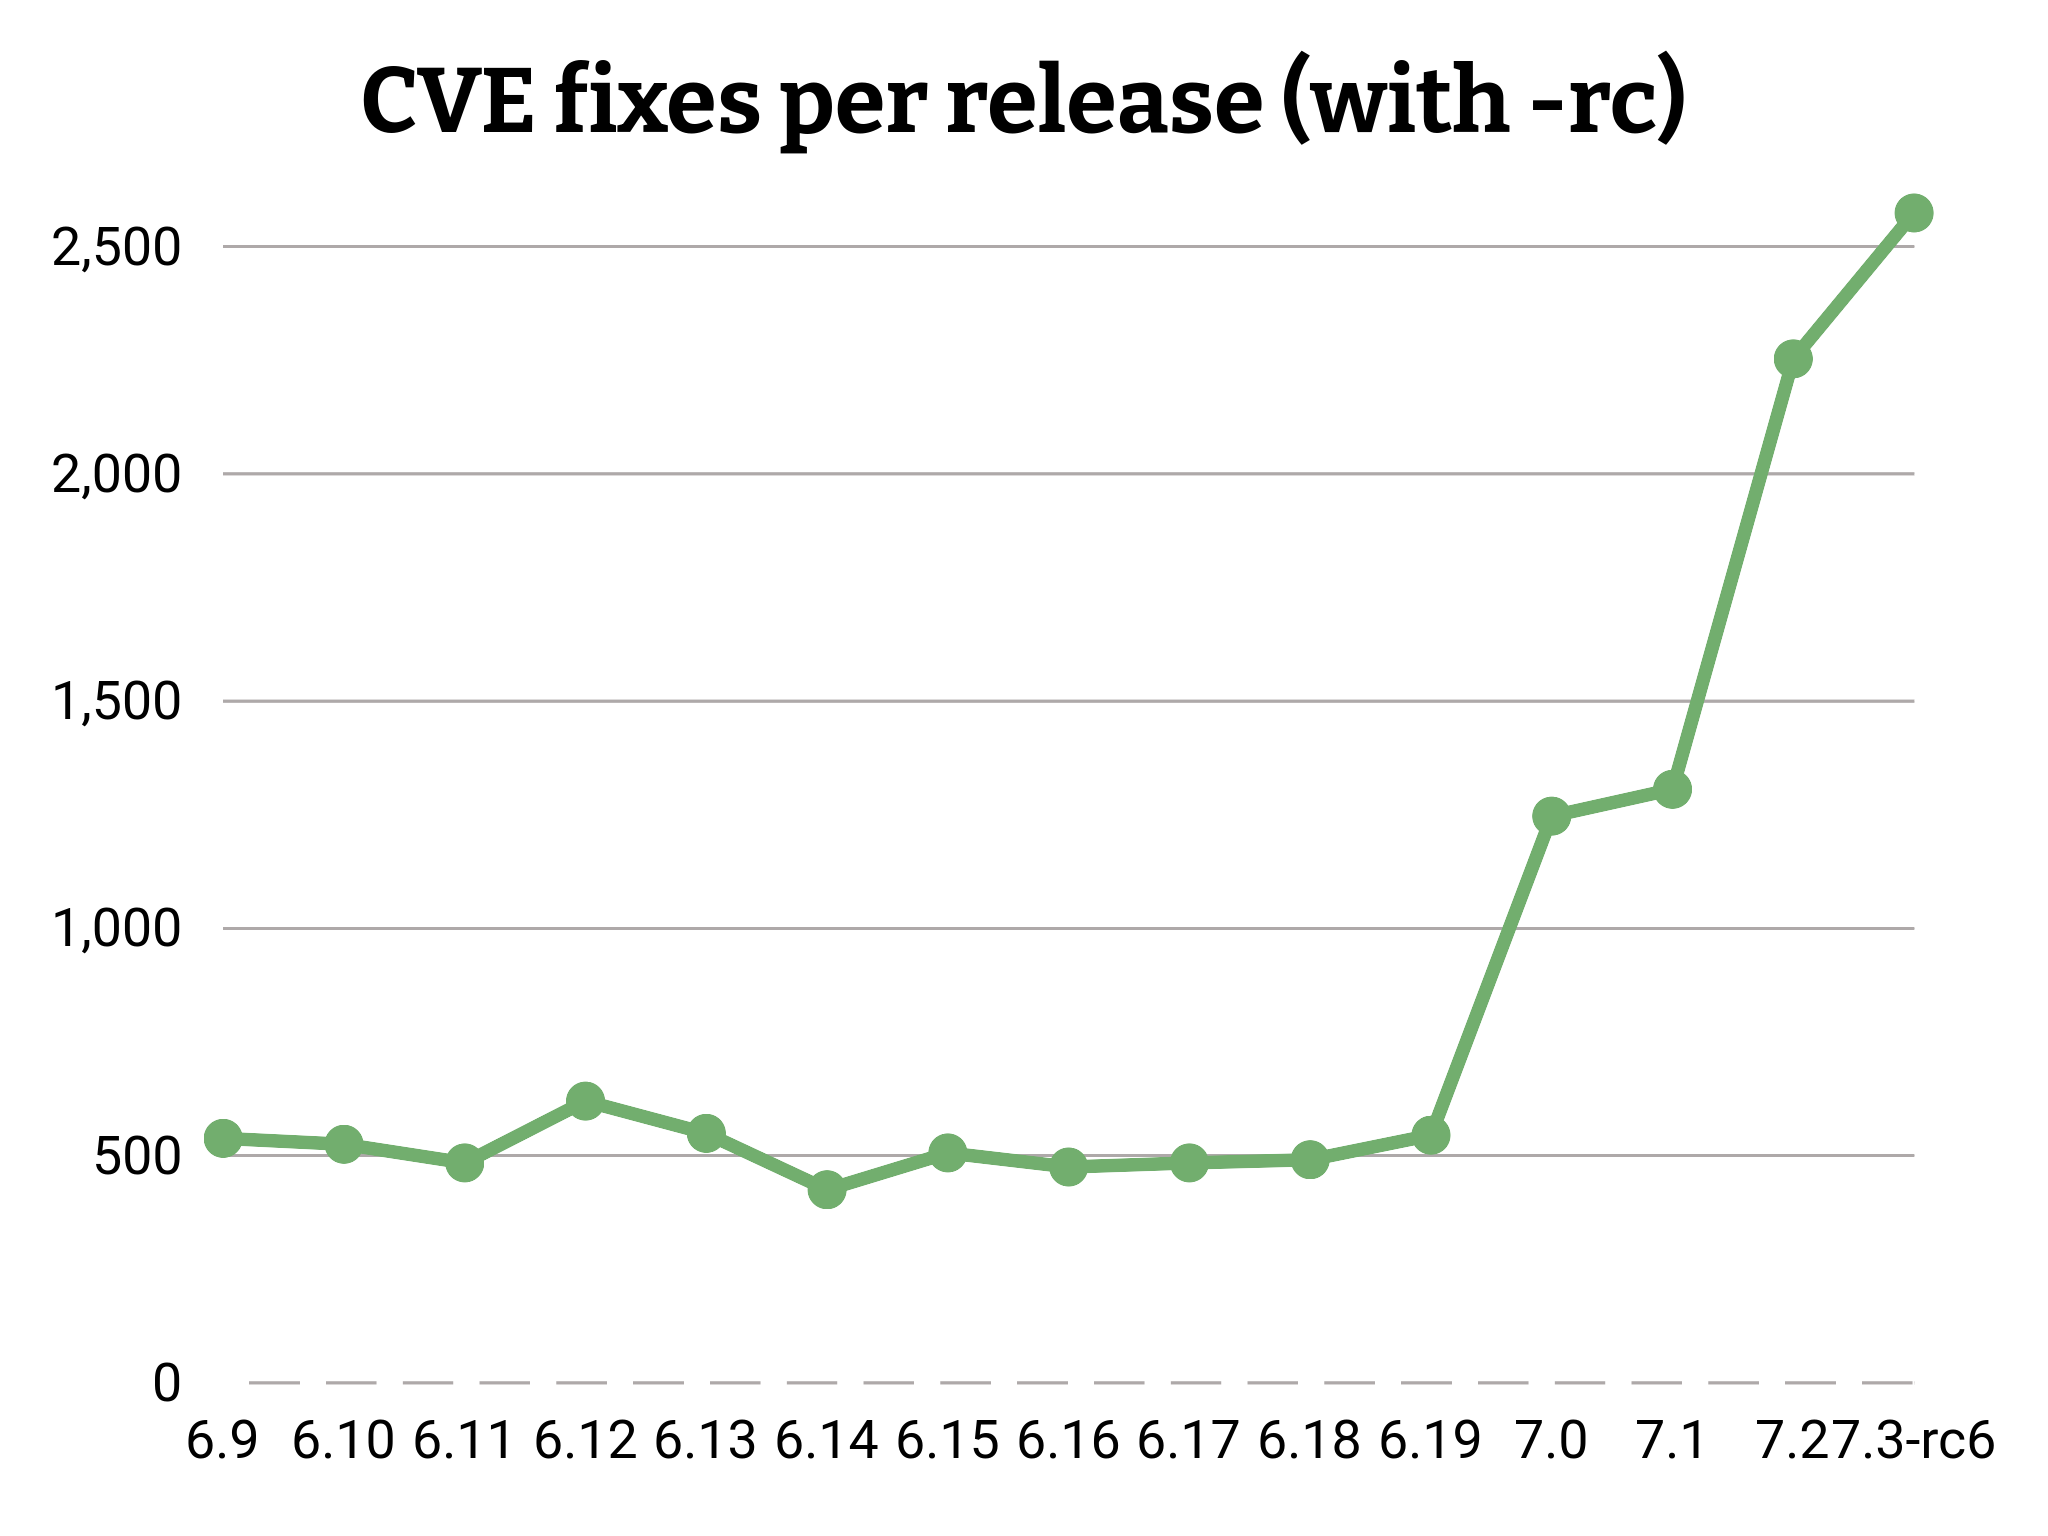
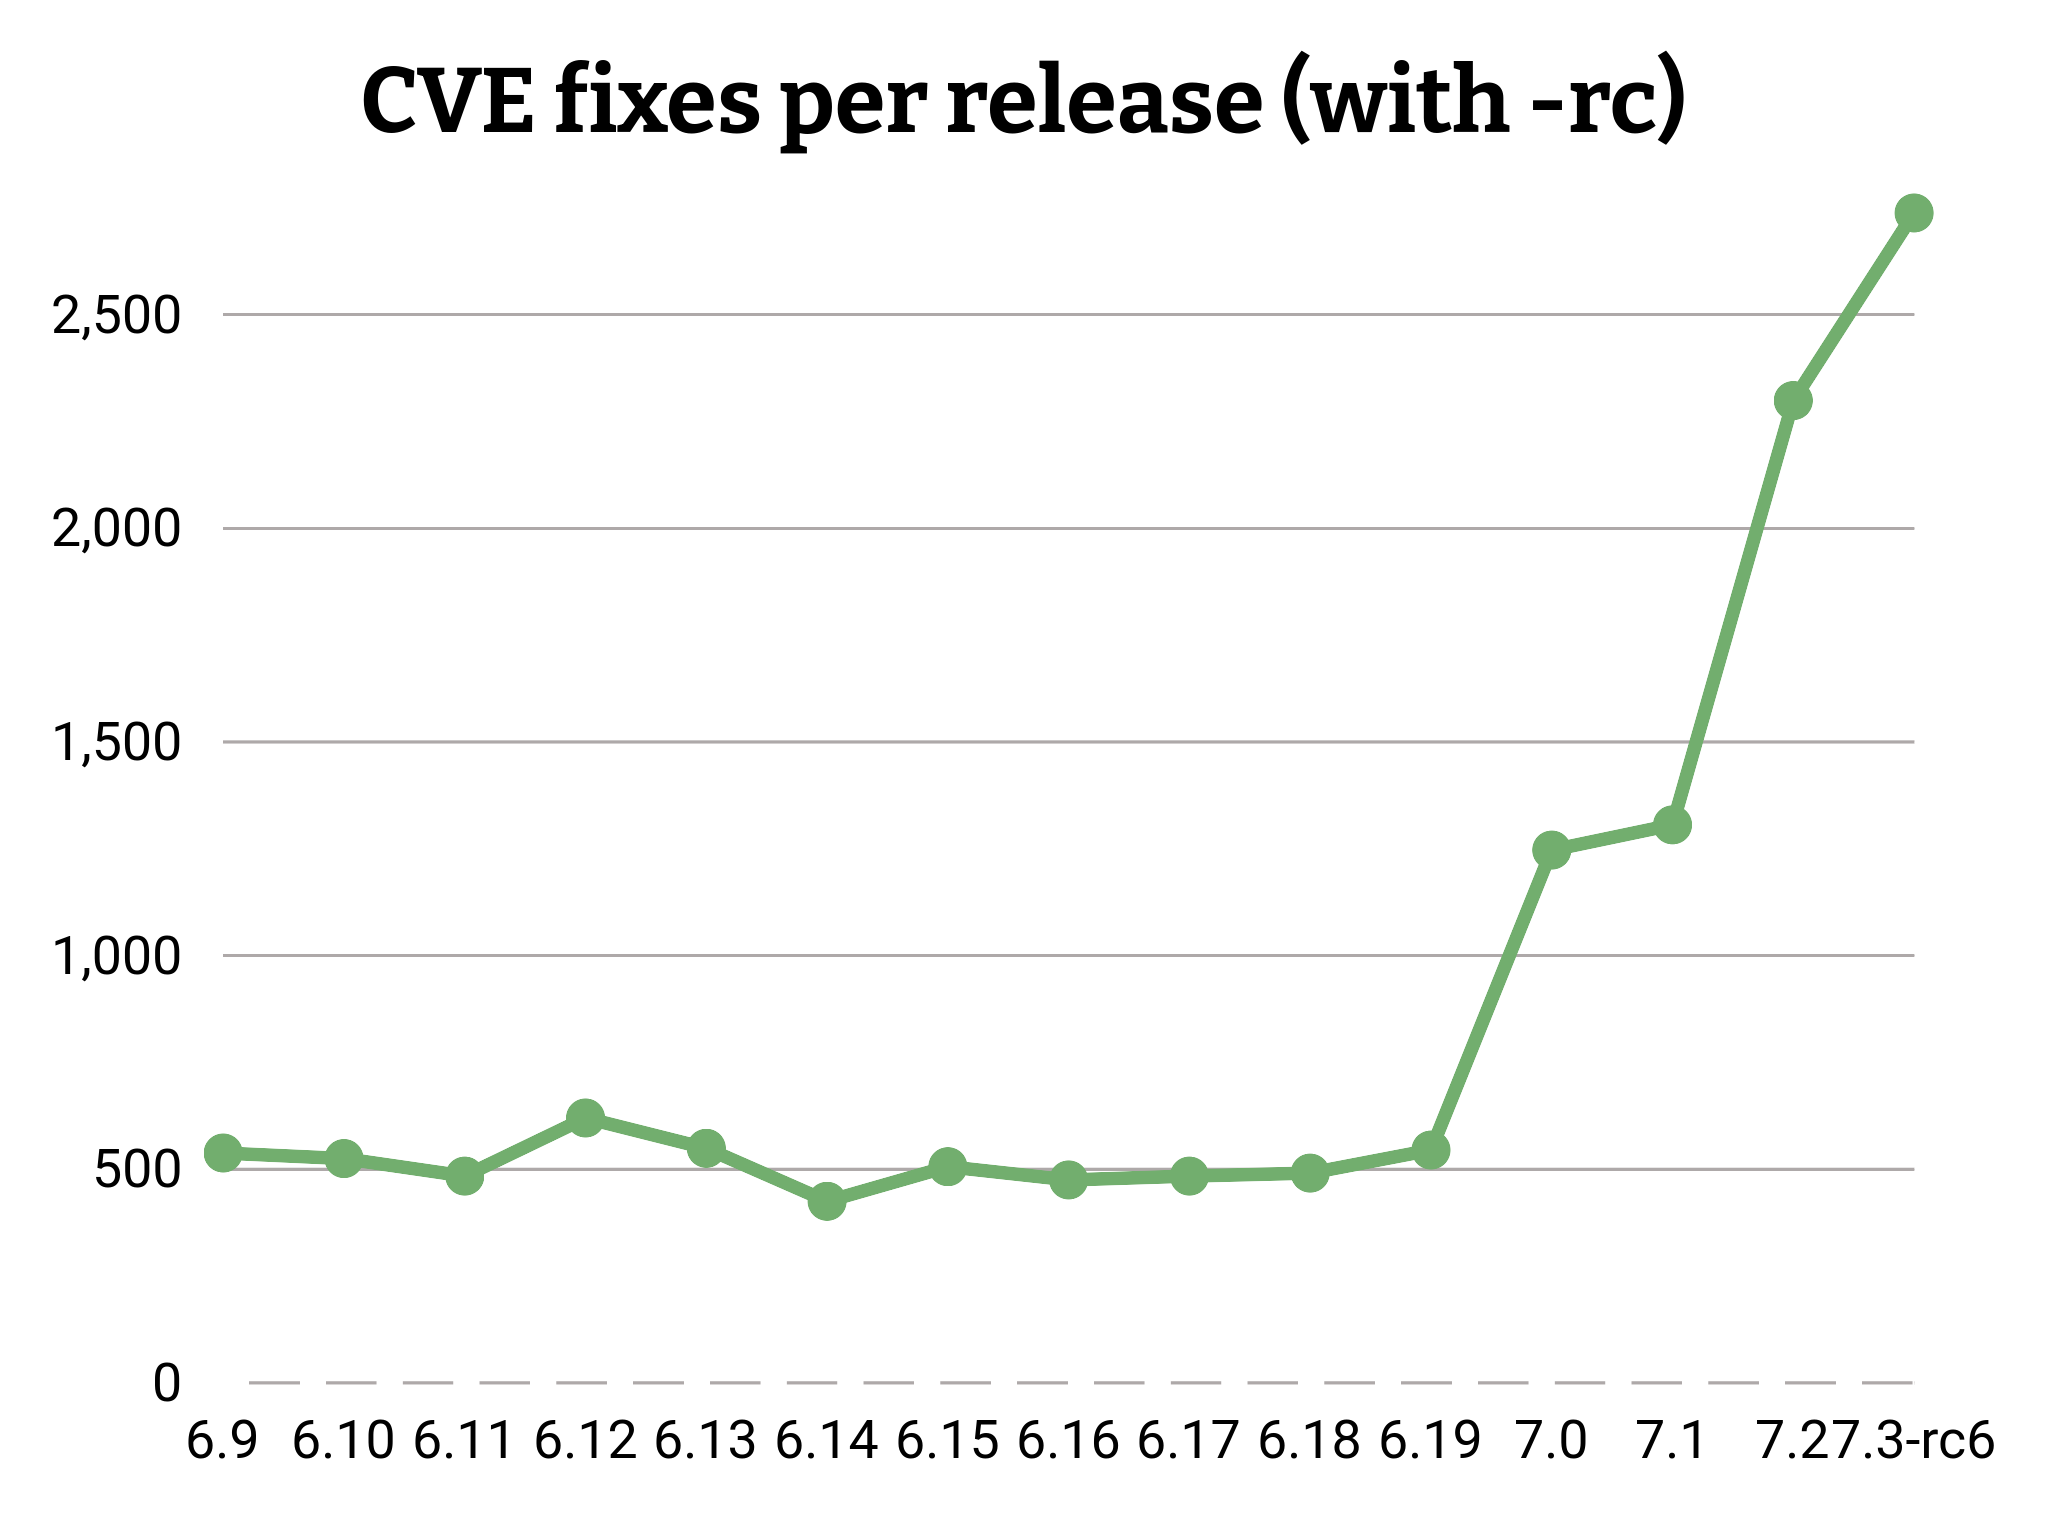
more updated kernel graphs added.

diff --git a/graphs/patches_per_release/cves_per_release.rb b/graphs/patches_per_release/cves_per_release.rb
@@ -46,7 +46,7 @@ g.data(' ', [
   545,  # 6.19
   1247, # 7.0
   1306, # 7.1
-  2254], # 7.2
+  2299], # 7.2
   '#72AE6E') # green
 
 g.write('cves_fixed_per_release.png')
@@ -99,8 +99,8 @@ g.data(' ', [
   545,  # 6.19
   1247, # 7.0
   1306, # 7.1
-  2253, # 7.2
-  2574],  # 7.3-rc6
+  2299, # 7.2
+  2738],  # 7.3-rc6
   '#72AE6E') # green
 g.write('cves_fixed_per_release-rc.png')
 
@@ -147,6 +147,7 @@ g.labels = {
   36 => '7.0',
 #  37 => '7.1',
 #  38 => '7.2',
+#  39 => '7.3',
 }
 
 g.theme = Gruff::Themes::PASTEL
@@ -163,45 +164,46 @@ g.baseline_color = 'white'
 #g.hide_lines = true
 
 g.data(' ', [
-  176,  # 5.4
-  190,  # 5.5
-  213,  # 5.6
-  222,  # 5.7
-  196,  # 5.8
-  177,  # 5.9
-  262,  # 5.10
-  218,  # 5.11
-  217,  # 5.12
-  287,  # 5.13
-  302,  # 5.14
-  475,  # 5.15
-  236,  # 5.16
-  258,  # 5.17
-  267,  # 5.18
-  304,  # 5.19
-  313,  # 6.0
-  197,  # 6.1
-  253,  # 6.2
-  231,  # 6.3
-  267,  # 6.4
-  216,  # 6.5
-  250,  # 6.6
-  308,  # 6.7
-  367,  # 6.8
-  260,  # 6.9
-  275,  # 6.10
-  285,  # 6.11
-  273,  # 6.12
-  239,  # 6.13
-  247,  # 6.14
-  282,  # 6.15
-  255,  # 6.16
-  178,  # 6.17
-  240,  # 6.18
-  227,  # 6.19
-  139,  # 7.0
-  134,  # 7.1
-  17],  # 7.2
+  191,  # 5.4
+  212,  # 5.5
+  240,  # 5.6
+  247,  # 5.7
+  230,  # 5.8
+  193,  # 5.9
+  286,  # 5.10
+  240,  # 5.11
+  243,  # 5.12
+  322,  # 5.13
+  329,  # 5.14
+  517,  # 5.15
+  266,  # 5.16
+  275,  # 5.17
+  287,  # 5.18
+  328,  # 5.19
+  384,  # 6.0
+  230,  # 6.1
+  281,  # 6.2
+  265,  # 6.3
+  301,  # 6.4
+  242,  # 6.5
+  308,  # 6.6
+  342,  # 6.7
+  422,  # 6.8
+  298,  # 6.9
+  326,  # 6.10
+  334,  # 6.11
+  314,  # 6.12
+  274,  # 6.13
+  290,  # 6.14
+  350,  # 6.15
+  310,  # 6.16
+  213,  # 6.17
+  289,  # 6.18
+  275,  # 6.19
+  200,  # 7.0
+  218,  # 7.1
+   74,  # 7.2
+    6], # 7.3
   '#72AE6E') # green
 
 g.write('cves_created_per_release.png')
